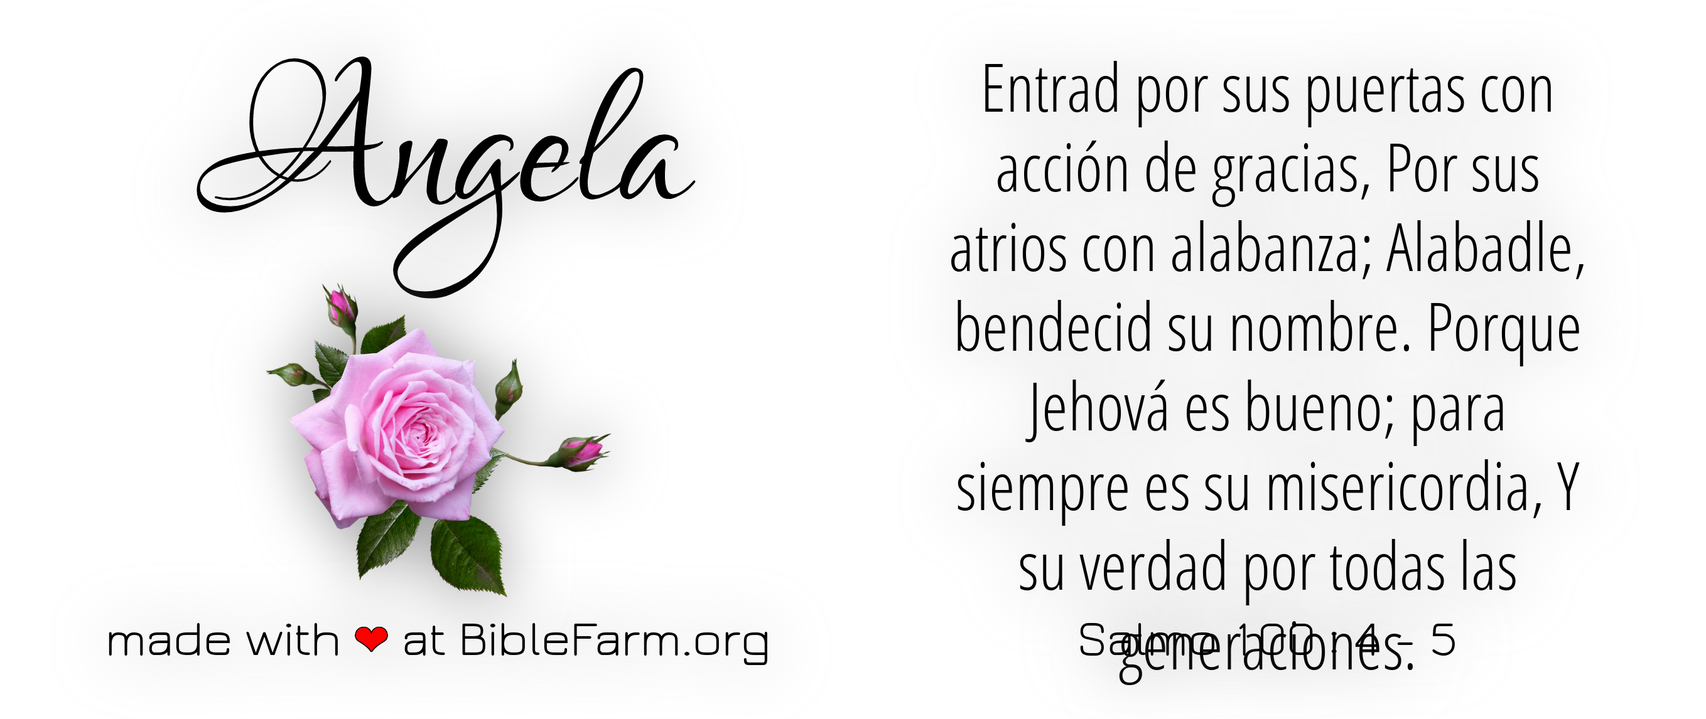
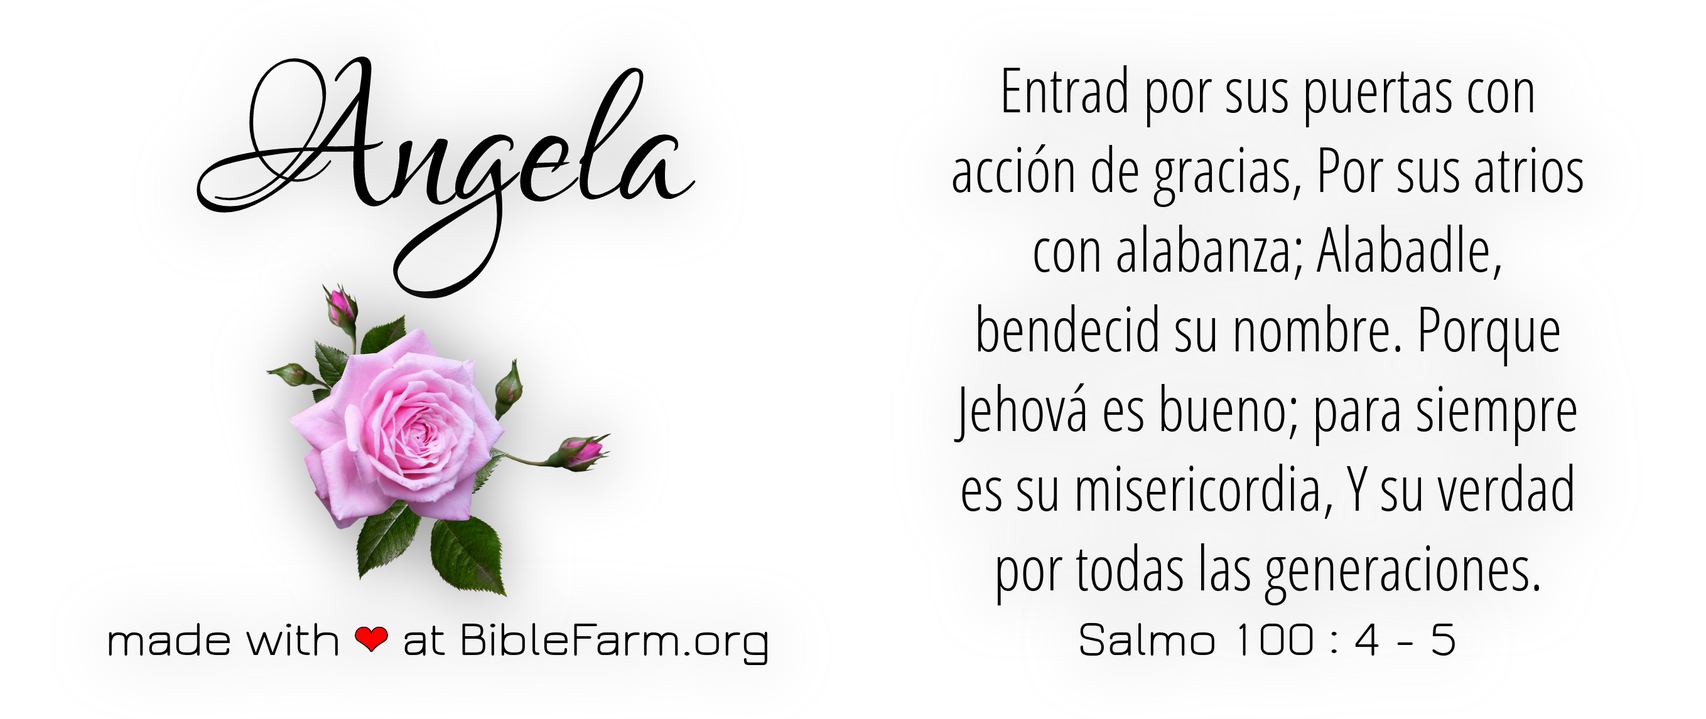
.

diff --git a/CUSTOM_CAT_RENDER_HERE/0005.html b/CUSTOM_CAT_RENDER_HERE/0005.html
@@ -315,7 +315,7 @@ made with <span class="heart" style="text-shadow: rgb(0, 0, 0) 1px 0px 0px, rgb(
 </div>
 
 <div class="CUSTOMER_VERSE_table">
-<span class="CUSTOMER_VERSE_table-cell"><span style="font-size: 106px;line-height: 127px;">Entrad por sus puertas con acción de gracias, Por sus atrios con alabanza; Alabadle, bendecid su nombre. Porque Jehová es bueno; para siempre es su misericordia, Y su verdad por todas las generaciones.</span></span>
+<span class="CUSTOMER_VERSE_table-cell"><span style="font-size: 99px;line-height: 127px;">Entrad por sus puertas con acción de gracias, Por sus atrios con alabanza; Alabadle, bendecid su nombre. Porque Jehová es bueno; para siempre es su misericordia, Y su verdad por todas las generaciones.</span></span>
 </div>
 
 <div class="CUSTOMER_REF_table">
@@ -369,7 +369,7 @@ made with <span class="heart" style="text-shadow: rgb(0, 0, 0) 1px 0px 0px, rgb(
 
    <br>
    <button id="create">Create File</button>
-   <a download="0001" id="downloadlink" style="display: block;" href="blob:null/8b33641c-bc42-4368-8ad9-bb732e06438a">Download Here</a>
+   <a download="0005" id="downloadlink" style="display: block;" href="blob:null/3d6565d4-1ef9-4805-b5fc-bddf9fa4de30">Download Here</a>
 </div>
 </div>
   <!-- END Design Customer Orders UI -->
@@ -393,346 +393,7 @@ made with <span class="heart" style="text-shadow: rgb(0, 0, 0) 1px 0px 0px, rgb(
 
 
 
-<script>
-$(document).ready(function (){
-// BEGIN Order ID
-$('#order_id').on('keyup', function() {
-var idNeeded = $(this).val();
-$('#show_order_id').text(idNeeded);
-$('#fname').val(idNeeded);
-});
-// BEGIN Render the CUSTOMER_NAME_table-cell
-$( "#customize_name" ).on( "focus click", function() {
-	function renderIn_modalName() {
-		$('.CUSTOMER_NAME_table-cell').html(
-			'<span>' + $('#customize_name').val() + '</span>'
-		);
-		$('.CUSTOMER_NAME_table-cell').textfill({
-			maxFontPixels: 2500
-		});
-	}
-	$('#customize_name').keyup(renderIn_modalName);
-	renderIn_modalName();
-});
-// END Render the CUSTOMER_NAME_table-cell
 
-// BEGIN Render the CUSTOMER_FLOWER_table-cell
-$( "#customize_flower" ).on( "focus click", function() {
-	function renderIn_modalFlower() {
-		$('.CUSTOMER_FLOWER_table-cell').html(
-			'<img class="CUSTOMER_FLOWER_img" width="" height="" src="../p-original-size/' + $('#customize_flower').val() + '.png" alt="" />'
-		);
-	}
-	$('#customize_flower').keyup(renderIn_modalFlower);
-	renderIn_modalFlower();
-});
-// END Render the CUSTOMER_FLOWER_table-cell
-
-// BEGIN Render the CUSTOMER_VERSE_table-cell
-$( "#customize_verse" ).on( "focus click", function() {
-	function renderIn_modalVerse() {
-		$('.CUSTOMER_VERSE_table-cell').html(
-			'<span>' + $('#customize_verse').val() + '</span>'
-		);
-		$('.CUSTOMER_VERSE_table-cell').textfill({
-			maxFontPixels: 2000
-		});
-	}
-	$('#customize_verse').keyup(renderIn_modalVerse);
-	renderIn_modalVerse();
-});
-// END Render the CUSTOMER_VERSE_table-cell
-
-// BEGIN Render the CUSTOMER_REF_table-cell
-$( "#customize_ref" ).on( "keyup change", function() {
-	function renderIn_modalRef() {
-		$('.CUSTOMER_REF_table-cell').html(
-			'<span>' + $('#customize_ref').val() + '</span>'
-		);
-	}
-	$('#customize_ref').keyup(renderIn_modalRef);
-	renderIn_modalRef();
-	// make char 1 smaller
-	setTimeout(function(){
-$('.CUSTOMER_REF_table-cell').html(function(i,el) {
-    return el.replace(/1/g, '<span class="char1">1</span>');
-});
-}, 1000);
-
-});
-// END Render the CUSTOMER_REF_table-cell
-
-// BEGIN Render the CUSTOMER_BACKGROUND
-$( "#customize_bg" ).on( "focus click", function() {
-	function renderTheBackground() {
-	/*
-	// commented out until I decide to use backgrounds
-	
-		$('.CUSTOMER_BACKGROUND').html(
-			'<img id="bg" class="" width="2717" height="1146" src="../bg-bleed/' + $('#customize_bg').val() + '.png" alt="" />'
-		);
-	*/
-	}
-	$('#customize_bg').keyup(renderTheBackground);
-	renderTheBackground();
-});
-	// in the meantime, we do not have a background 
-	$( "#bg" ).css('display', 'none');
-
-// END Render the CUSTOMER_BACKGROUND
-
-// BEGIN red heart stroke
-// BEGIN textStroke. text stroke made by http://jsfiddle.net/KjyYV/ hack, thanks to http://readysetdinosaurs.blogspot.com.ar/2013/05/adding-text-strokes-with-jquery-and-css.html https://github.com/simonausten/jquery-textstroke/blob/master/jquery-textstroke.js
-$.fn.textStroke = function(r, colour) {
-var rules = [];
-var steps = 24;
-for (var t=0;t<=(2*Math.PI);t+=(2*Math.PI)/steps){
-var x = r*Math.cos(t);
-var y = r*Math.sin(t);
-x = (Math.abs(x) < 1e-6) ? '0' : x.toString();
-y = (Math.abs(y) < 1e-6) ? '0' : y.toString();
-rules.push( x + "px " + y + "px 0px " + colour );
-}
-this.css('textShadow',rules.join());
-};
-$(function(){
-    $('.heart').textStroke(1,'#000000');
-});
-// END textStroke
-// END red heart stroke
-
-
-
-
-
-
-
-
-
-/*
-	// BEGIN and change font colors & shadows accordingly
-	$( "#customize_bg" ).on( "keyup", function() {
-// if url has a "D"
-if ($(".CUSTOMER_BACKGROUND > img").attr('src').indexOf('bg-bleed/D') > -1) {
-// BEGIN textStroke. text stroke made by http://jsfiddle.net/KjyYV/ hack, thanks to http://readysetdinosaurs.blogspot.com.ar/2013/05/adding-text-strokes-with-jquery-and-css.html https://github.com/simonausten/jquery-textstroke/blob/master/jquery-textstroke.js
-$.fn.textStroke = function(r, colour) {
-var rules = [];
-var steps = 24;
-for (var t=0;t<=(2*Math.PI);t+=(2*Math.PI)/steps){
-var x = r*Math.cos(t);
-var y = r*Math.sin(t);
-x = (Math.abs(x) < 1e-6) ? '0' : x.toString();
-y = (Math.abs(y) < 1e-6) ? '0' : y.toString();
-rules.push( x + "px " + y + "px 0px " + colour );
-}
-this.css('textShadow',rules.join());
-};
-$(function(){
-$('body').css("background", "none");
-    $('.CUSTOMER_NAME_table-cell').attr("style", "").css("color", "#d5ad6d");
-    $('.MADE_WITH_LOVE_table-cell').attr("style", "").css("color", "#d5ad6d");
-    $('.CUSTOMER_VERSE_table-cell').attr("style", "").css("color", "#d5ad6d");
-    $('.CUSTOMER_REF_table-cell').attr("style", "").css("color", "#d5ad6d");
-
-    $('.CUSTOMER_NAME_table-cell').textStroke(2,'#000000');
-    $('.MADE_WITH_LOVE_table-cell').textStroke(2,'#000000');
-    $('.CUSTOMER_VERSE_table-cell').textStroke(2,'#000000');
-    $('.CUSTOMER_REF_table-cell').textStroke(2,'#000000');
-});
-// END textStroke
-}
-// if url has a "d"
-if ($(".CUSTOMER_BACKGROUND > img").attr('src').indexOf('bg-bleed/d') > -1) {
-// BEGIN textStroke. text stroke made by http://jsfiddle.net/KjyYV/ hack, thanks to http://readysetdinosaurs.blogspot.com.ar/2013/05/adding-text-strokes-with-jquery-and-css.html https://github.com/simonausten/jquery-textstroke/blob/master/jquery-textstroke.js
-$.fn.textStroke = function(r, colour) {
-var rules = [];
-var steps = 24;
-for (var t=0;t<=(2*Math.PI);t+=(2*Math.PI)/steps){
-var x = r*Math.cos(t);
-var y = r*Math.sin(t);
-x = (Math.abs(x) < 1e-6) ? '0' : x.toString();
-y = (Math.abs(y) < 1e-6) ? '0' : y.toString();
-rules.push( x + "px " + y + "px 0px " + colour );
-}
-this.css('textShadow',rules.join());
-};
-$(function(){
-$('body').css("background", "none");
-    $('.CUSTOMER_NAME_table-cell').attr("style", "").css("color", "#d5ad6d");
-    $('.MADE_WITH_LOVE_table-cell').attr("style", "").css("color", "#d5ad6d");
-    $('.CUSTOMER_VERSE_table-cell').attr("style", "").css("color", "#d5ad6d");
-    $('.CUSTOMER_REF_table-cell').attr("style", "").css("color", "#d5ad6d");
-
-    $('.CUSTOMER_NAME_table-cell').textStroke(2,'#000000');
-    $('.MADE_WITH_LOVE_table-cell').textStroke(2,'#000000');
-    $('.CUSTOMER_VERSE_table-cell').textStroke(2,'#000000');
-    $('.CUSTOMER_REF_table-cell').textStroke(2,'#000000');
-});
-// END textStroke
-}
-// if url has a "L"
-if ($(".CUSTOMER_BACKGROUND > img").attr('src').indexOf('bg-bleed/L') > -1) {
-// BEGIN textStroke. text stroke made by http://jsfiddle.net/KjyYV/ hack, thanks to http://readysetdinosaurs.blogspot.com.ar/2013/05/adding-text-strokes-with-jquery-and-css.html https://github.com/simonausten/jquery-textstroke/blob/master/jquery-textstroke.js
-$.fn.textStroke = function(r, colour) {
-var rules = [];
-var steps = 24;
-for (var t=0;t<=(2*Math.PI);t+=(2*Math.PI)/steps){
-var x = r*Math.cos(t);
-var y = r*Math.sin(t);
-x = (Math.abs(x) < 1e-6) ? '0' : x.toString();
-y = (Math.abs(y) < 1e-6) ? '0' : y.toString();
-rules.push( x + "px " + y + "px 0px " + colour );
-}
-this.css('textShadow',rules.join());
-};
-$(function(){
-$('body').css("background", "none");
-    $('.CUSTOMER_NAME_table-cell').attr("style", "").css("color", "#000000");
-    $('.MADE_WITH_LOVE_table-cell').attr("style", "").css("color", "#000000");
-    $('.CUSTOMER_VERSE_table-cell').attr("style", "").css("color", "#000000");
-    $('.CUSTOMER_REF_table-cell').attr("style", "").css("color", "#000000");
-
-    $('.CUSTOMER_NAME_table-cell').textStroke(2,'#d5ad6d');
-    $('.MADE_WITH_LOVE_table-cell').textStroke(2,'#d5ad6d');
-    $('.CUSTOMER_VERSE_table-cell').textStroke(2,'#d5ad6d');
-    $('.CUSTOMER_REF_table-cell').textStroke(2,'#d5ad6d');
-});
-// END textStroke
-}
-// if url has a "l"
-if ($(".CUSTOMER_BACKGROUND > img").attr('src').indexOf('bg-bleed/l') > -1) {
-// BEGIN textStroke. text stroke made by http://jsfiddle.net/KjyYV/ hack, thanks to http://readysetdinosaurs.blogspot.com.ar/2013/05/adding-text-strokes-with-jquery-and-css.html https://github.com/simonausten/jquery-textstroke/blob/master/jquery-textstroke.js
-$.fn.textStroke = function(r, colour) {
-var rules = [];
-var steps = 24;
-for (var t=0;t<=(2*Math.PI);t+=(2*Math.PI)/steps){
-var x = r*Math.cos(t);
-var y = r*Math.sin(t);
-x = (Math.abs(x) < 1e-6) ? '0' : x.toString();
-y = (Math.abs(y) < 1e-6) ? '0' : y.toString();
-rules.push( x + "px " + y + "px 0px " + colour );
-}
-this.css('textShadow',rules.join());
-};
-$(function(){
-$('body').css("background", "none");
-    $('.CUSTOMER_NAME_table-cell').attr("style", "").css("color", "#000000");
-    $('.MADE_WITH_LOVE_table-cell').attr("style", "").css("color", "#000000");
-    $('.CUSTOMER_VERSE_table-cell').attr("style", "").css("color", "#000000");
-    $('.CUSTOMER_REF_table-cell').attr("style", "").css("color", "#000000");
-
-    $('.CUSTOMER_NAME_table-cell').textStroke(2,'#d5ad6d');
-    $('.MADE_WITH_LOVE_table-cell').textStroke(2,'#d5ad6d');
-    $('.CUSTOMER_VERSE_table-cell').textStroke(2,'#d5ad6d');
-    $('.CUSTOMER_REF_table-cell').textStroke(2,'#d5ad6d');
-});
-// END textStroke
-}
-});
-	// END and change font colors & shadows accordingly
-*/
-// BEGIN button to remove guidelines
-$( "#removeGuidelines" ).on( "click", function() {
-	$( ".CustomCat11ozMugTemplate" ).toggle('slow');
-});
-// END button to remove guidelines
-
-    $('#SaveHTMLpage').click(function(){
-var order_id = $('#order_id').val();
-      // fill the show_order_id div
-      $('#show_order_id').text(order_id);
-
-        // Save the page's HTML to a file that is automatically downloaded.
-
-        // We make a Blob that contains the data to download.
-        var file = new window.Blob([document.documentElement.innerHTML], { type: "text/html" });
-        var URL = window.webkitURL || window.URL;
-
-        // This is the URL that will download the data.
-        var downloadUrl = URL.createObjectURL(file);
-
-        var a = document.createElement("a");
-        // This sets the file name.
-        a.download = order_id + ".html";
-        a.href = downloadUrl;
-
-        // Actually perform the download.
-        document.body.appendChild(a);
-        a.click();
-        document.body.removeChild(a);
-    });
-
-
-// fill the input that will contain the content of the js file to create
-$('#order_id').on('keyup', function() {
-var idNeeded = $(this).val();
-$('#fname').val(idNeeded);
-$('#fcontent').val("const puppeteer = require('/home/demo/node_modules/puppeteer'); (async () => { const browser = await puppeteer.launch({      defaultViewport: {width: 2717, height: 1146}  }); const page = await browser.newPage(); await page.goto('file:///media/demo/ALL-DATA/Github/shop/CUSTOM_CAT_RENDER_HERE/" + idNeeded + ".html'); await page.waitForTimeout(100); await page.screenshot({ path: '//media/demo/ALL-DATA/Github/shop/CUSTOM_CAT_RENDER_HERE/" + idNeeded + ".png' }); await browser.close(); })();");
-});
-
-
-// BEGIN save js file to later run puppeteer
-(function() {
-    var textFile = null,
-        makeTextFile = function(js) {
-            var data = new Blob([js], {
-                type: 'text/javascript'
-            });
-
-            if (textFile !== null) {
-                window.URL.revokeObjectURL(textFile);
-            }
-
-            textFile = window.URL.createObjectURL(data);
-
-            return textFile;
-        };
-
-
-    var create = document.getElementById('create');
-    var fileContent = document.getElementById("fcontent");
-
-    create.addEventListener('click', function() {
-        const fileName = document.getElementById("fname").value;
-        document.getElementById("downloadlink").setAttribute("download", fileName);
-        var link = document.getElementById('downloadlink');
-        link.href = makeTextFile(fileContent.value);
-        link.style.display = 'block';
-    }, false);
-})();
-
-
-
-///////////////////////////////////
-/*
-const puppeteer = require('/home/demo/node_modules/puppeteer');
-(async () => {
-const browser = await puppeteer.launch({      defaultViewport: {width: 2717, height: 1146}  });
-const page = await browser.newPage();
-// BEGIN paste here:
-await page.goto('file:///media/demo/ALL-DATA/Github/shop/CUSTOM_CAT_DESIGN_HERE/CustomCat_Complete_11oz_Mug_ArtTemplate_Working.html'); await page.waitForTimeout(100); await page.screenshot({ path: '//media/demo/ALL-DATA/Github/shop/CUSTOM_CAT_RENDER_HERE/Lorenzo.png' });
-// END paste here:
-await browser.close();
-})();
-*/
-////////////////////////////////////
-
-
-////////////////////////////////////
-// BEGIN move flower up/down ///////
-////////////////////////////////////
-$('#moveFlowerUpDown').on('change', function() {
-var moveThisMuch = $(this).val();
-$('.CUSTOMER_FLOWER_table').css('top', moveThisMuch);
-});
-////////////////////////////////////
-// BEGIN move flower up/down ///////
-////////////////////////////////////
-
-
-
-});
-</script>
 
 
 </body>

diff --git a/share/mugs/Redirect_Sharing_Pages_Mugs.html b/share/mugs/Redirect_Sharing_Pages_Mugs.html
@@ -1,1 +1,1 @@
-<!DOCTYPE HTML><html lang="en-GB" prefix="og: http://ogp.me/ns#" itemscope itemtype="http://schema.org/DefinedTerm"><head><meta charset="utf-8"><meta http-equiv="X-UA-Compatible" content="IE=edge"><meta content="width=device-width, initial-scale=1, maximum-scale=1" name="viewport"><meta content="no" name="msapplication-tap-highlight"><link href="/apple-touch-icon.png?v=057" rel="apple-touch-icon" sizes="180x180"><link href="/favicon-32x32.png?v=057" rel="icon" sizes="32x32" type="image/png"><link href="/favicon-194x194.png?v=057" rel="icon" sizes="194x194" type="image/png"><link href="/android-chrome-192x192.png?v=057" rel="icon" sizes="192x192" type="image/png"><link href="/favicon-16x16.png?v=057" rel="icon" sizes="16x16" type="image/png"><link href="/site.webmanifest?v=057" rel="manifest"><link href="/safari-pinned-tab.svg?v=057" rel="mask-icon"><link href="/favicon.ico?v=057" rel="shortcut icon"><meta content="BibleFarm.org" name="apple-mobile-web-app-title"><meta content="BibleFarm.org" name="application-name"><meta content="#000000" name="msapplication-TileColor"><meta content="/mstile-144x144.png?v=057" name="msapplication-TileImage"><meta content="#000000" name="theme-color"><link href="/apple-icon-57x57.png?v=057" rel="apple-touch-icon" sizes="57x57"><link href="/apple-icon-60x60.png?v=057" rel="apple-touch-icon" sizes="60x60"><link href="/apple-icon-72x72.png?v=057" rel="apple-touch-icon" sizes="72x72"><link href="/apple-icon-76x76.png?v=057" rel="apple-touch-icon" sizes="76x76"><link href="/apple-icon-114x114.png?v=057" rel="apple-touch-icon" sizes="114x114"><link href="/apple-icon-120x120.png?v=057" rel="apple-touch-icon" sizes="120x120"><link href="/apple-icon-144x144.png?v=057" rel="apple-touch-icon" sizes="144x144"><link href="/apple-icon-152x152.png?v=057" rel="apple-touch-icon" sizes="152x152"><link href="/favicon-96x96.png?v=057" rel="icon" sizes="96x96" type="image/png"><link href="/manifest.json?v=057" rel="manifest"><link href="/apple-touch-icon-57x57.png?v=057" rel="apple-touch-icon-precomposed" sizes="57x57"><link href="/apple-touch-icon-114x114.png?v=057" rel="apple-touch-icon-precomposed" sizes="114x114"><link href="/apple-touch-icon-72x72.png?v=057" rel="apple-touch-icon-precomposed" sizes="72x72"><link href="/apple-touch-icon-144x144.png?v=057" rel="apple-touch-icon-precomposed" sizes="144x144"><link href="/apple-touch-icon-60x60.png?v=057" rel="apple-touch-icon-precomposed" sizes="60x60"><link href="/apple-touch-icon-120x120.png?v=057" rel="apple-touch-icon-precomposed" sizes="120x120"><link href="/apple-touch-icon-76x76.png?v=057" rel="apple-touch-icon-precomposed" sizes="76x76"><link href="/apple-touch-icon-152x152.png?v=057" rel="apple-touch-icon-precomposed" sizes="152x152"><link href="/favicon-196x196.png?v=057" rel="icon" sizes="196x196" type="image/png"><link href="/favicon-96x96.png?v=057" rel="icon" sizes="96x96" type="image/png"><link href="/favicon-32x32.png?v=057" rel="icon" sizes="32x32" type="image/png"><link href="/favicon-16x16.png?v=057" rel="icon" sizes="16x16" type="image/png"><link href="/favicon-128.png?v=057" rel="icon" sizes="128x128" type="image/png"><meta content="BibleFarm.org" name="application-name"><meta content="#000000" name="msapplication-TileColor"><meta content="/mstile-144x144.png?v=057" name="msapplication-TileImage"><meta content="/mstile-70x70.png?v=057" name="msapplication-square70x70logo"><meta content="/mstile-150x150.png?v=057" name="msapplication-square150x150logo"><meta content="/mstile-310x150.png?v=057" name="msapplication-wide310x150logo"><meta content="/mstile-310x310.png?v=057" name="msapplication-square310x310logo"><meta content="summary_large_image" name="twitter:card"><meta content="shared with ❤ at BibleFarm.org" name="twitter:title"><meta content="Come be part of the team sharing The Word & fulfilling Mat 25:31-40" name="twitter:description"><meta content="@biblefarm" name="twitter:site"><meta content="@biblefarm" name="twitter:creator"><meta content="https://biblefarm.github.io/posts-en/images/Deuteronomy-6-4.png" name="twitter:image:src"><meta content="be a part of the BibleFarm.org team" name="twitter:image:alt"><meta content="shared with ❤ at BibleFarm.org" property="og:title"><meta content="Come be part of the team sharing The Word & fulfilling Mat 25:31-40" property="og:description"><meta content="https://biblefarm.github.io/posts-en/images/Deuteronomy-6-4.png" property="og:image"><meta content="image/jpeg" property="og:image:type"><meta content="1200" property="og:image:width"><meta content="630" property="og:image:height"><meta content="https://team.biblefarm.org/_yournamehere_/deuteronomy-6-4" property="og:url"><meta content="BibleFarm.org - Come be part of the team sharing The Word & fulfilling Mat 25:31-40" property="og:site_name"><meta content="en_US" property="og:locale"><meta content="356077414586259" property="fb:admins"><meta content="205604789951385" property="fb:app_id"><meta content="website" property="og:type"><meta content="e3f86f5a3fa4999b9c17c1605383d4a8" name="p:domain_verify"><link href="images/torah_farm_launch_screen_640x1136.png" rel="apple-touch-startup-image"><meta content="#f00" name="theme-color"><meta content="#f00" name="msapplication-navbutton-color"><meta content="Hear, O Israel: The LORD our God <i>is</i> one LORD: (Deuteronomy 6:4)" name="description"><meta content="https://biblefarm.github.io/posts-en/images/Deuteronomy-6-4.png" name="image"><link href="../Redirect_Sharing_Pages_Mugs.css" rel="stylesheet" type="text/css"><title itemprop="name">BibleFarm.org - Deuteronomy 6:4</title></head><body><div id="bg">topaz</div><div class="v" itemprop="description">Hear, O Israel: The LORD our God <i>is</i> one LORD: (Deuteronomy 6:4)</div><div class="wrap_image_sharing_ready_to_share"><div><img itemprop="image" alt="Deuteronomy-6-4" src="../../Sharing_Items_Mugs/Images/Deuteronomy-6-4.png"></div></div><script src="../../shop_js/offline_dependency_2017-11-16_jquery-3.2.1.min.js"></script><script src="../Redirect_Sharing_Pages_Mugs.js"></script></body></html> 
+<!DOCTYPE HTML><html lang="en-GB" prefix="og: http://ogp.me/ns#" itemscope itemtype="http://schema.org/DefinedTerm"><head><meta charset="utf-8"><meta http-equiv="X-UA-Compatible" content="IE=edge"><meta content="width=device-width, initial-scale=1, maximum-scale=1" name="viewport"><meta content="no" name="msapplication-tap-highlight"><link href="/apple-touch-icon.png?v=057" rel="apple-touch-icon" sizes="180x180"><link href="/favicon-32x32.png?v=057" rel="icon" sizes="32x32" type="image/png"><link href="/favicon-194x194.png?v=057" rel="icon" sizes="194x194" type="image/png"><link href="/android-chrome-192x192.png?v=057" rel="icon" sizes="192x192" type="image/png"><link href="/favicon-16x16.png?v=057" rel="icon" sizes="16x16" type="image/png"><link href="/site.webmanifest?v=057" rel="manifest"><link href="/safari-pinned-tab.svg?v=057" rel="mask-icon"><link href="/favicon.ico?v=057" rel="shortcut icon"><meta content="BibleCups.com" name="apple-mobile-web-app-title"><meta content="BibleCups.com" name="application-name"><meta content="#000000" name="msapplication-TileColor"><meta content="/mstile-144x144.png?v=057" name="msapplication-TileImage"><meta content="#000000" name="theme-color"><link href="/apple-icon-57x57.png?v=057" rel="apple-touch-icon" sizes="57x57"><link href="/apple-icon-60x60.png?v=057" rel="apple-touch-icon" sizes="60x60"><link href="/apple-icon-72x72.png?v=057" rel="apple-touch-icon" sizes="72x72"><link href="/apple-icon-76x76.png?v=057" rel="apple-touch-icon" sizes="76x76"><link href="/apple-icon-114x114.png?v=057" rel="apple-touch-icon" sizes="114x114"><link href="/apple-icon-120x120.png?v=057" rel="apple-touch-icon" sizes="120x120"><link href="/apple-icon-144x144.png?v=057" rel="apple-touch-icon" sizes="144x144"><link href="/apple-icon-152x152.png?v=057" rel="apple-touch-icon" sizes="152x152"><link href="/favicon-96x96.png?v=057" rel="icon" sizes="96x96" type="image/png"><link href="/manifest.json?v=057" rel="manifest"><link href="/apple-touch-icon-57x57.png?v=057" rel="apple-touch-icon-precomposed" sizes="57x57"><link href="/apple-touch-icon-114x114.png?v=057" rel="apple-touch-icon-precomposed" sizes="114x114"><link href="/apple-touch-icon-72x72.png?v=057" rel="apple-touch-icon-precomposed" sizes="72x72"><link href="/apple-touch-icon-144x144.png?v=057" rel="apple-touch-icon-precomposed" sizes="144x144"><link href="/apple-touch-icon-60x60.png?v=057" rel="apple-touch-icon-precomposed" sizes="60x60"><link href="/apple-touch-icon-120x120.png?v=057" rel="apple-touch-icon-precomposed" sizes="120x120"><link href="/apple-touch-icon-76x76.png?v=057" rel="apple-touch-icon-precomposed" sizes="76x76"><link href="/apple-touch-icon-152x152.png?v=057" rel="apple-touch-icon-precomposed" sizes="152x152"><link href="/favicon-196x196.png?v=057" rel="icon" sizes="196x196" type="image/png"><link href="/favicon-96x96.png?v=057" rel="icon" sizes="96x96" type="image/png"><link href="/favicon-32x32.png?v=057" rel="icon" sizes="32x32" type="image/png"><link href="/favicon-16x16.png?v=057" rel="icon" sizes="16x16" type="image/png"><link href="/favicon-128.png?v=057" rel="icon" sizes="128x128" type="image/png"><meta content="BibleCups.com" name="application-name"><meta content="#000000" name="msapplication-TileColor"><meta content="/mstile-144x144.png?v=057" name="msapplication-TileImage"><meta content="/mstile-70x70.png?v=057" name="msapplication-square70x70logo"><meta content="/mstile-150x150.png?v=057" name="msapplication-square150x150logo"><meta content="/mstile-310x150.png?v=057" name="msapplication-wide310x150logo"><meta content="/mstile-310x310.png?v=057" name="msapplication-square310x310logo"><meta content="summary_large_image" name="twitter:card"><meta content="shared with ❤ at BibleCups.com" name="twitter:title"><meta content="Customize picture & Bible verse $10 shipping included" name="twitter:description"><meta content="@biblecups" name="twitter:site"><meta content="@biblecups" name="twitter:creator"><meta content="https://biblefarm.github.io/posts-en/images/Deuteronomy-6-4.png" name="twitter:image:src"><meta content="Customize picture & Bible verse $10 shipping included" name="twitter:image:alt"><meta content="shared with ❤ at BibleCups.com" property="og:title"><meta content="Customize picture & Bible verse $10 shipping included" property="og:description"><meta content="https://biblefarm.github.io/posts-en/images/Deuteronomy-6-4.png" property="og:image"><meta content="image/jpeg" property="og:image:type"><meta content="1200" property="og:image:width"><meta content="630" property="og:image:height"><meta content="https://team.biblefarm.org/_yournamehere_/deuteronomy-6-4" property="og:url"><meta content="BibleCups.org - Customize picture & Bible verse $10 shipping included" property="og:site_name"><meta content="en_US" property="og:locale"><meta content="356077414586259" property="fb:admins"><meta content="205604789951385" property="fb:app_id"><meta content="website" property="og:type"><meta content="e3f86f5a3fa4999b9c17c1605383d4a8" name="p:domain_verify"><link href="images/torah_farm_launch_screen_640x1136.png" rel="apple-touch-startup-image"><meta content="#f00" name="theme-color"><meta content="#f00" name="msapplication-navbutton-color"><meta content="Hear, O Israel: The LORD our God <i>is</i> one LORD: (Deuteronomy 6:4)" name="description"><meta content="../mugs-images/Deuteronomy-6-4.png" name="image"><link href="../Redirect_Sharing_Pages_Mugs.css" rel="stylesheet" type="text/css"><title itemprop="name">BibleCups.com - Deuteronomy 6:4</title></head><body><div id="bg">topaz</div><div class="v" itemprop="description">Hear, O Israel: The LORD our God <i>is</i> one LORD: (Deuteronomy 6:4)</div><div class="wrap_image_sharing_ready_to_share"><div><img itemprop="image" alt="Deuteronomy-6-4" src="../mugs-images/Deuteronomy-6-4.png"></div></div><script src="../../shop_js/offline_dependency_2017-11-16_jquery-3.2.1.min.js"></script><script src="../Redirect_Sharing_Pages_Mugs.js"></script></body></html> 

diff --git a/share/Redirect_Sharing_Pages_Mugs.js b/share/Redirect_Sharing_Pages_Mugs.js
@@ -1,4 +1,3 @@
- 
 ///////////////////////////////////////////////////
 /// BEGIN JS for ready post modal  ///////
 ///////////////////////////////////////////////////
